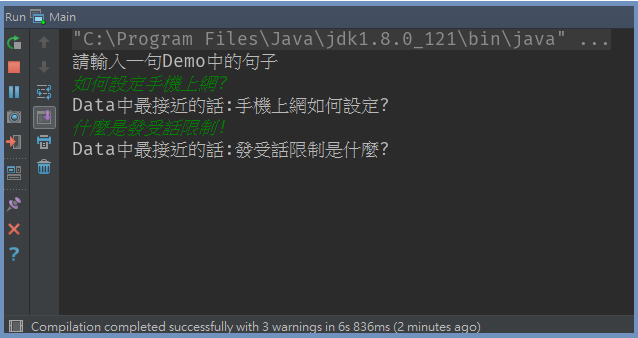
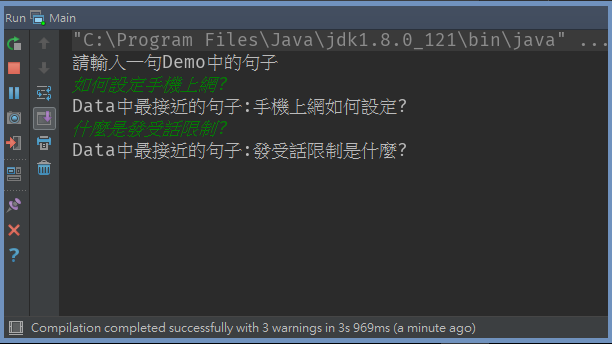
Updata

diff --git a/src/main/java/BM25/Main.java b/src/main/java/BM25/Main.java
@@ -22,7 +22,7 @@ public class Main {
         while (true) {
             Scanner scanner = new Scanner(System.in);
             String sentence = scanner.nextLine();
-            System.out.print("Data中最接近的話:");
+            System.out.print("Data中最接近的句子:");
             System.out.println(calculator.rankBM25(sentence));
         }
     }
